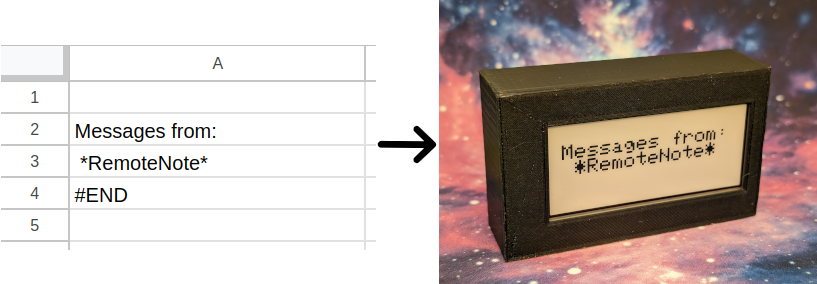
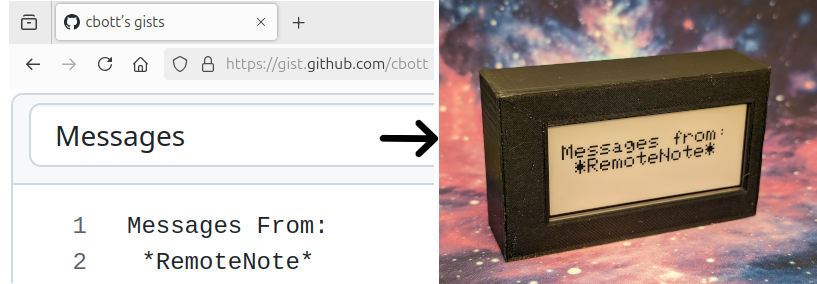
Readme updates for gist usage

Changed region(s): [[0.0, 0.0, 0.5508, 0.9577], [0.2142, 0.1972, 0.5202, 0.2535], [0.1224, 0.1972, 0.1836, 0.2535]]

diff --git a/README.md b/README.md
@@ -21,9 +21,9 @@ An E-Paper display that displays messages from the internet
     - Once again, [this](https://learn.adafruit.com/adafruit-feather-m0-wifi-atwinc1500/updating-ssl-certificates) tutorial
     - Make sure to add the `setPins()` line to the WiFi101 "FirmwareUpdater" example sketch
     - I had to use an older 1.8.x version of the Arduino IDE to get the updater tool to work
-1. Create a Google Sheets document and enable link sharing
-    - Place your message in the cells
-    - Fill in the last row with `#END` as the code will read up to that specific keyword
+1. Create a secret [gist](https://gist.github.com/) titled `Messages`
+    - Place your message in the file
+    - RemoteNote will read up to 100 characters or until the keyword `#END`, though only 80 printable characters will fit on the screen
 1. Create a file called `secrets.h` with the following definitions
     ```
     // secrets.h
@@ -31,7 +31,7 @@ An E-Paper display that displays messages from the internet
     #define SECRET_PASS "your wifi password"
     #define SECRET_PAGE_ID "your/gist/path"
     ```
-    where your/gist/path points to the raw view of the gist and will look something like `cbott/xxxxxxxx/raw`
+    where your/gist/path points to the raw view of the gist and will look something like `cbott/xxxxxxxx/raw/Messages`
 1. If you do not care about battery voltage sensing, update the `EPD_CS` define line in RemoteNote.ino to be 9 instead of 5
     - Assuming you want a nice battery percentage indicator, we need to modify the board a bit because the FeatherWing uses pin 9 (analog A7) for chip select, even though the Feather board uses that same pin for battery sensing.
     - Cut the jumper traces on the back of the FeatherWing labeled ECS and SDCS, and solder a jumper from the far side of ECS to the pin side of SDCS.
@@ -45,13 +45,13 @@ View the enclosure CAD model on [OnShape](https://cad.onshape.com/documents/76b6
 CAD models for boards provided by [Adafruit_CAD_Parts](https://github.com/adafruit/Adafruit_CAD_Parts) repository
 
 ## Message Formatting
-By default, messages will be displayed in black text on a white background.
+By default, messages will be displayed in black text on a white background. With configured font size the screen is 5 rows of 16 characters each.
 
-Messages may be prefixed with the string `[BG R]` or `[BG B]` to set the background color to be Red or Black. Following that with `[R]` or `[W]` will set the text color to either Red or White. These must be the first characters in the spreadsheet and will apply to the whole message.
+Messages may be prefixed with the string `[BG R]` or `[BG B]` to set the background color to be Red or Black. Following that with `[R]` or `[W]` will set the text color to either Red or White. These must be the first characters in the message and will apply to the whole message.
 - Example: `[BG B][W]Hello World` will display the message "Hello World" in white text on a black background.
 - Example: `[R]Hello World` will display the message "Hello World" in red text on a white background.
 
-The Adafruit display uses [CP437 encoding](https://en.wikipedia.org/wiki/Code_page_437) which, combined with HTTP responses modifying some formatting, can make it difficult to display special characters. Characters will need to be valid in both UTF8 and CP437 to make this work. Characters such as "<" will not display properly due to being escaped in the HTTP response.
+The Adafruit display uses [CP437 encoding](https://en.wikipedia.org/wiki/Code_page_437) which, combined with HTTP responses modifying some formatting, can make it difficult to display special characters. Characters will need to be valid in both UTF8 and CP437 to make this work. Characters such as "<" may not display properly due to being escaped in the HTTP response.
 
 
 ## Notes
